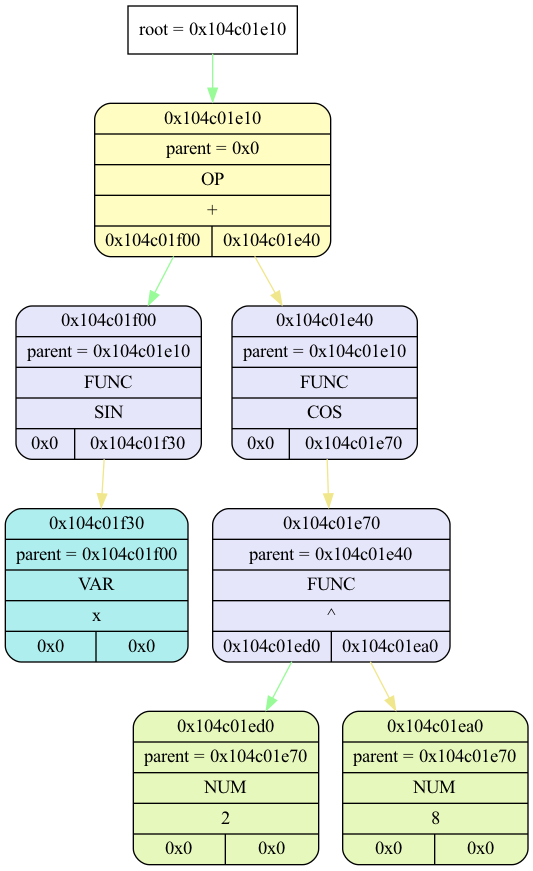
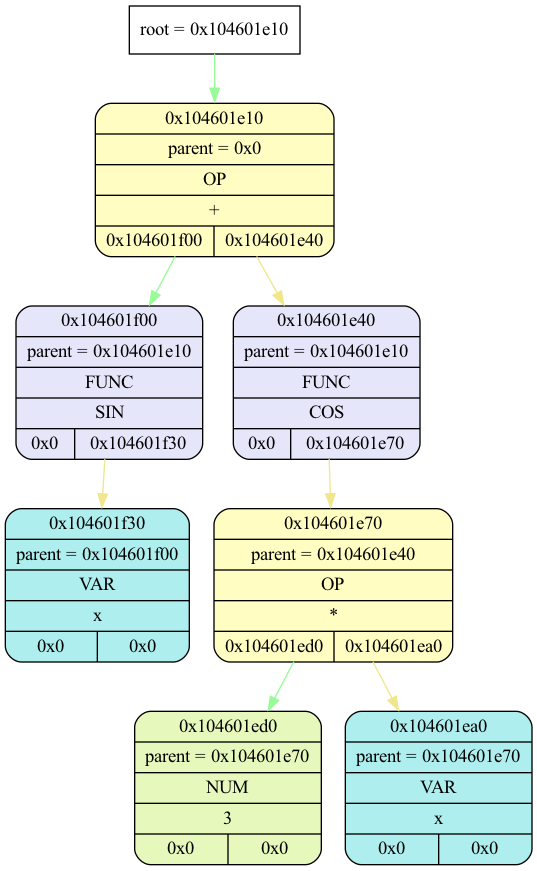
read_preorder is ready

diff --git a/logs/log.html b/logs/log.html
@@ -1,18 +1,10 @@
 <html>
 <pre>
-int main() at main.cpp(31):
-Tree 0x16d5373e0 (<span style="color: green">OK</span>) "&tree" at int main() at main.cpp(10):
-{root = 0x104c01e10}</pre>
+int main() at main.cpp(27):
+Tree 0x16da97500 (<span style="color: green">OK</span>) "&tree" at int main() at main.cpp(10):
+{root = 0x104601e10}</pre>
 <img src="./images/tree_dump1.png">
 <pre>
-int main() at main.cpp(32):
-Tree 0x16d537470 (<span style="color: green">OK</span>) "&tree1" at int main() at main.cpp(25):
-{root = 0x104c01ba0}</pre>
-<img src="./images/tree_dump2.png">
-<pre>
-Tree 0x16d537470 "&tree1" at int main() at main.cpp(25): DESTRUCTED
-</pre>
-<pre>
-Tree 0x16d5373e0 "&tree" at int main() at main.cpp(10): DESTRUCTED
+Tree 0x16da97500 "&tree" at int main() at main.cpp(10): DESTRUCTED
 </pre>
 </html>

diff --git a/diff.cpp b/diff.cpp
@@ -176,60 +176,23 @@ tree_node_t * tree_read_preorder(char * buffer, int * pos)
         if (is_operation(ch))
         {
             *pos += cnt;
-            node_type op = TYPE_MUL;
-
-            switch (ch)
-            {
-                case '*':
-                    break;
-                case '+':
-                    op = TYPE_ADD;
-                    break;
-                case '-':
-                    op = TYPE_SUB;
-                    break;
-                case '/':
-                    op = TYPE_DIV;
-                    break;
-            }
-
-            tree_node_t * node_ch1 = tree_read_preorder(buffer, pos);
-            tree_node_t * node_ch2 = tree_read_preorder(buffer, pos);
-            tree_node_t * node_op = create_op(op, node_ch1, node_ch2);
-
-            sscanf(buffer + *pos, "%c%n", &ch, &cnt);
-            if (ch != ')')
-            {
-               fprintf(log_file, "<pre>Must be \")\" after node</pre>\n");
-               subtree_dump(node_op);
-               return NULL;
-            }
-            *pos += cnt;
-
-            return node_op;
+            return get_oper(buffer, pos, ch);
         }
+        else if (isdigit(ch) || ch == '-')
+            return get_number(buffer, pos);
 
-        else if (isdigit(ch))
+        else if (isalpha(ch))
+            return get_func_or_var(buffer, pos);
+
+        else if (ch == '(')
         {
-            elem_t value = 0;
-            sscanf(buffer + *pos, "%d%n", &value, &cnt);
-            tree_node_t * node_num = create_num(value);
             *pos += cnt;
-
-            sscanf(buffer + *pos, "%c%n", &ch, &cnt);
-            if (ch != ')')
-            {
-               fprintf(log_file, "<pre>Must be \")\" after node</pre>\n");
-               subtree_dump(node_num);
-               return NULL;
-            }
-            *pos += cnt;
-
-            return node_num;
+            return tree_read_preorder(buffer, pos);
         }
+
         else
         {
-            fprintf(log_file, "<pre>Undefind symbol</pre>\n");
+            fprintf(log_file, "<pre>Undefind symbol: %c </pre>\n", ch);
             return NULL;
         }
     }
@@ -238,6 +201,128 @@ tree_node_t * tree_read_preorder(char * buffer, int * pos)
         fprintf(log_file, "<pre>Must start with \"(\" | ch = %c | pos = %d |</pre>\n", ch, *pos);
         return NULL;
     }
+}
+
+int check_close_bracket(char * buffer, int * pos)
+{
+    int cnt = 0;
+    char ch = '\0';
+
+    sscanf(buffer + *pos, "%c%n", &ch, &cnt);
+
+    if (ch != ')')
+    {
+        fprintf(log_file, "<pre>Must be \")\" after node: pos = %d, ch = %c</pre>\n", *pos, ch);
+        //subtree_dump(node_num);
+        return 0;
+    }
+
+    return cnt;
+}
+
+tree_node_t * get_number(char * buffer, int * pos)
+{
+    elem_t value = 0;
+    int cnt = 0;
+
+    sscanf(buffer + *pos, "%d%n", &value, &cnt);
+    tree_node_t * node_num = create_num(value);
+    *pos += cnt;
+
+    cnt = check_close_bracket(buffer, pos);
+    if (!cnt)
+        return NULL;
+
+    *pos += cnt;
+    return node_num;
+}
+
+tree_node_t * get_oper(char * buffer, int * pos, char ch)
+{
+    node_type op = TYPE_MUL;
+
+    switch (ch)
+    {
+        case '*':
+            break;
+        case '+':
+            op = TYPE_ADD;
+            break;
+        case '-':
+            op = TYPE_SUB;
+            break;
+        case '/':
+            op = TYPE_DIV;
+            break;
+    }
+
+    tree_node_t * node_ch1 = tree_read_preorder(buffer, pos);
+    tree_node_t * node_ch2 = tree_read_preorder(buffer, pos);
+    tree_node_t * node_op = create_op(op, node_ch1, node_ch2);
+
+    int cnt = check_close_bracket(buffer, pos);
+    if (!cnt)
+        return NULL;
+
+    *pos += cnt;
+
+    return node_op;
+}
+
+tree_node_t * get_func_or_var(char * buffer, int * pos)
+{
+    char cmd[32];
+    int cnt = 0;
+    char ch = '\0';
+
+    sscanf(buffer + *pos, "%[a-z]%n", cmd, &cnt);
+    *pos += cnt;
+
+    sscanf(buffer + *pos, "%c%n", &ch, &cnt);
+    int is_var = 0;
+    *pos += cnt;
+
+    if (ch != '(')
+    {
+        is_var = 1;
+        *pos -= cnt;
+    }
+
+    tree_node_t * node = NULL;
+
+    if (!strcmp(cmd, "sin"))
+        node = SIN(tree_read_preorder(buffer, pos));
+    else if (!strcmp(cmd, "cos"))
+        node = COS(tree_read_preorder(buffer, pos));
+    else if (!strcmp(cmd, "ln"))
+        node = LN(tree_read_preorder(buffer, pos));
+    else if (!strcmp(cmd, "^"))
+        node = POW(tree_read_preorder(buffer, pos),
+                   tree_read_preorder(buffer, pos));
+    else if (!strcmp(cmd, "log"))
+        node = LOG(tree_read_preorder(buffer, pos),
+                   tree_read_preorder(buffer, pos));
+    else if (!strcmp(cmd, "exp"))
+        node = EXP(tree_read_preorder(buffer, pos));
+    else
+    {
+        node = VAR(cmd[0]);
+        //if (is_var == 0)
+    }
+
+    cnt = check_close_bracket(buffer, pos);
+    if (!cnt)
+        return NULL;
+    *pos += cnt;
+    if (!is_var)
+    {
+        cnt = check_close_bracket(buffer, pos);
+        if (!cnt)
+            return NULL;
+        *pos += cnt;
+    }
+
+    return node;
 }
 
 int is_operation(char ch)

diff --git a/main.cpp b/main.cpp
@@ -9,24 +9,25 @@ int main(void)
     tree_t tree = {};
     tree_ctor(&tree);
 
-    tree_node_t * n1 = create_func(TYPE_SIN, create_var('x'));
-    tree_node_t * nlog = create_func(TYPE_POW, create_num(2), create_num(8));
-    tree_node_t * n2 = create_func(TYPE_COS, nlog);
-    tree_node_t * n3 = create_op(TYPE_ADD, n1, n2);
+//     tree_node_t * n1 = create_func(TYPE_SIN, create_var('x'));
+//     tree_node_t * nlog = create_func(TYPE_POW, create_num(2), create_num(8));
+//     tree_node_t * n2 = create_func(TYPE_COS, nlog);
+//     tree_node_t * n3 = create_op(TYPE_ADD, n1, n2);
+//
+//     link_root(&tree, n3);
+//
+//     tree_t tree1 = {};
+//     tree_ctor(&tree1);
+//
+//     tree1.root = diff(tree.root);
+//
+//     tree_make_expression(&tree1, PRE, "./prints/tree_print.txt");
 
-    link_root(&tree, n3);
-
-    tree_t tree1 = {};
-    tree_ctor(&tree1);
-
-    tree1.root = diff(tree.root);
-
-    tree_make_expression(&tree1, PRE, "./prints/tree_print.txt");
-
+    tree_read_expression(&tree, "./read/expr.txt");
     tree_dump(&tree);
-    tree_dump(&tree1);
-
-    tree_dtor(&tree1);
+//     tree_dump(&tree1);
+//
+//     tree_dtor(&tree1);
     tree_dtor(&tree);
     close_log_file();
 

diff --git a/diff.h b/diff.h
@@ -32,6 +32,17 @@ int tree_read_expression(tree_t * tree, const char * filename);
 tree_node_t * tree_read_preorder(char * buffer, int * pos);
 
 //! @brief ...
+int check_close_bracket(char * buffer, int * pos);
+
+//! @brief ...
+tree_node_t * get_number(char * buffer, int * pos);
+
+//! @brief ...
+tree_node_t * get_oper(char * buffer, int * pos, char ch);
+
+//! @brief ...
+tree_node_t * get_func_or_var(char * buffer, int * pos);
+//! @brief ...
 int is_operation(char ch);
 
 //! @brief Eval ...

diff --git a/dsl.h b/dsl.h
@@ -11,6 +11,7 @@
 #define EXP(R)    create_func(TYPE_EXP, R)
 
 #define NUM(x) create_num(x)
+#define VAR(x) create_var(x)
 
 #define dL  diff(node->left)
 #define dR diff(node->right)
